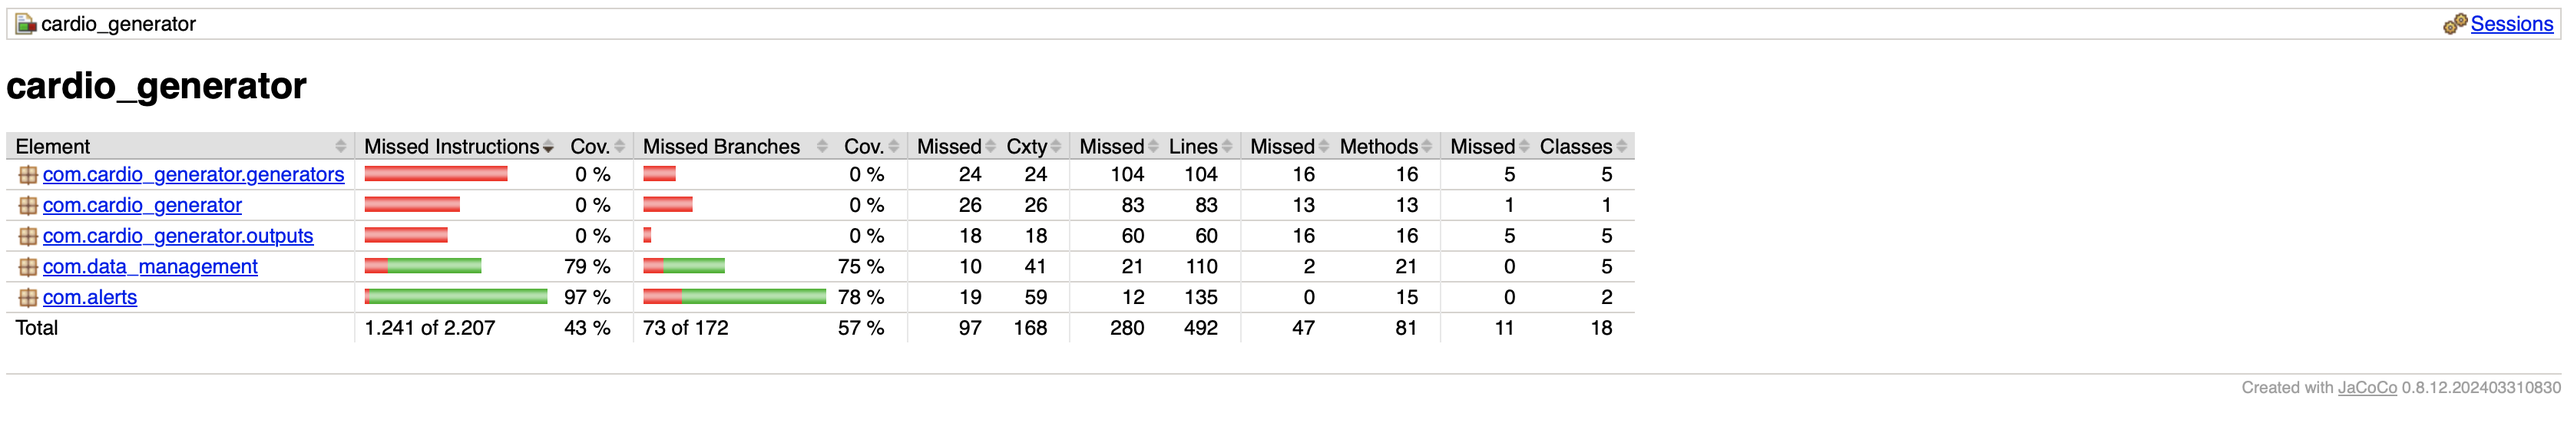
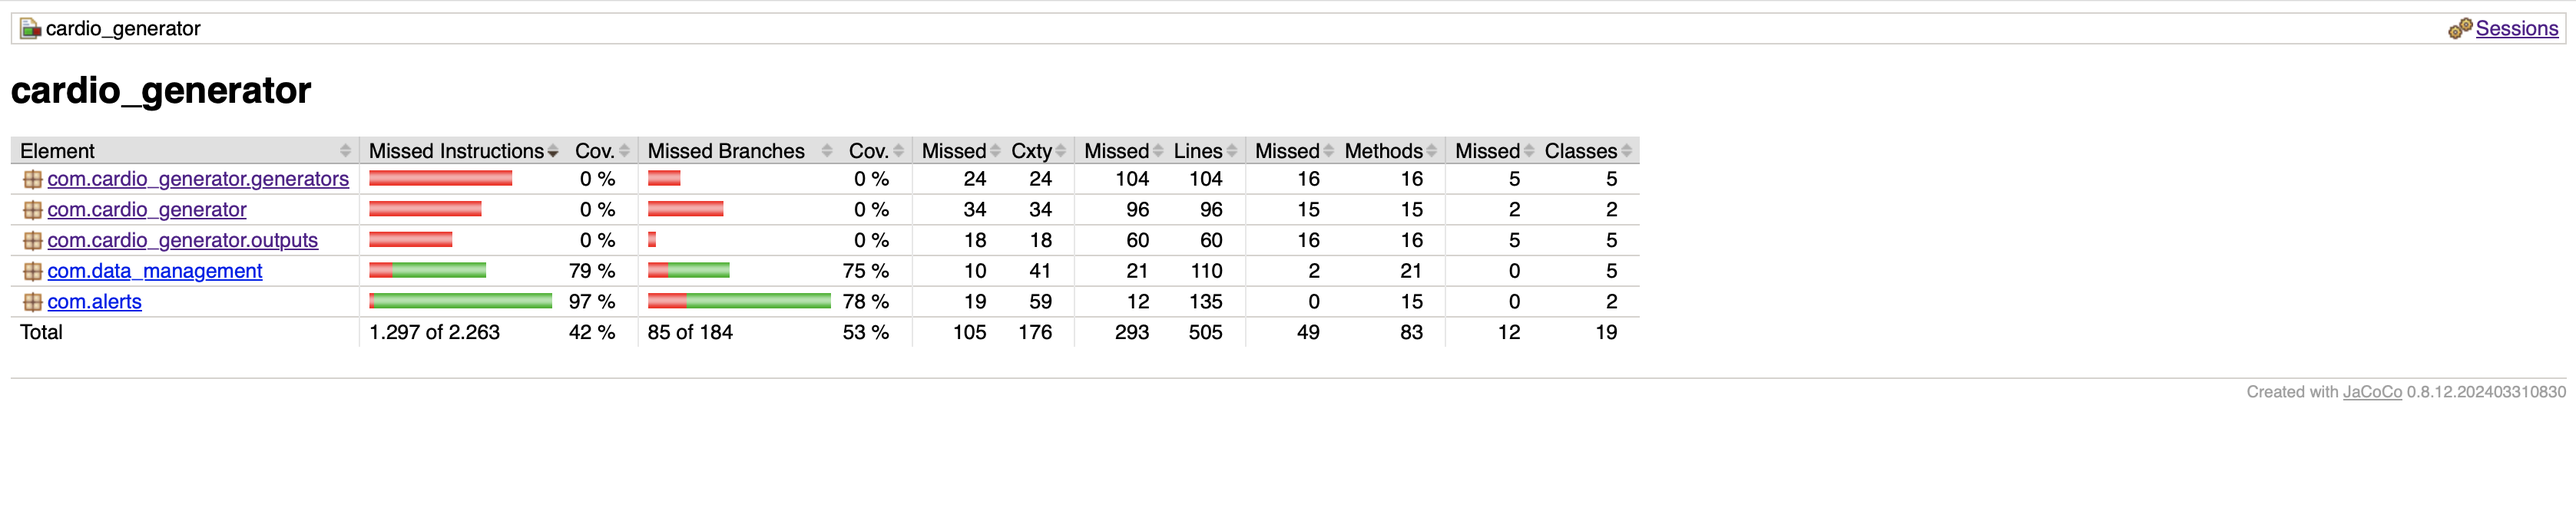
week3 updates, forgot to push main class

Changed region(s): [[0.0, 0.1507, 1.0, 0.7837], [0.0, 0.0, 1.0, 0.0904], [0.0, 0.844, 1.0, 0.9344]]

diff --git a/src/main/java/com/cardio_generator/Main.java b/src/main/java/com/cardio_generator/Main.java
@@ -1,0 +1,33 @@
+package com.cardio_generator;
+
+import com.data_management.DataStorage;
+
+/**
+ * Can run either the simulator or the storage demo.
+ * (default) runs HealthDataSimulator
+ *  args[0] == "DataStorage" runs DataStorage
+ */
+public final class Main {
+    private Main() {
+    }
+    public static void main(String[] args) {
+        if (args != null && args.length > 0 && "DataStorage".equalsIgnoreCase(args[0])) {
+            DataStorage.main(sliceArgs(args, 1));
+            return;
+        }
+        try {
+            HealthDataSimulator.main(args == null ? new String[0] : args);
+        } catch (Exception e) {
+            throw new RuntimeException("Failed to run HealthDataSimulator", e);
+        }
+    }
+
+    private static String[] sliceArgs(String[] args, int startIdx) {
+        if (args == null || startIdx >= args.length) {
+            return new String[0];
+        }
+        String[] out = new String[args.length - startIdx];
+        System.arraycopy(args, startIdx, out, 0, out.length);
+        return out;
+    }
+}
